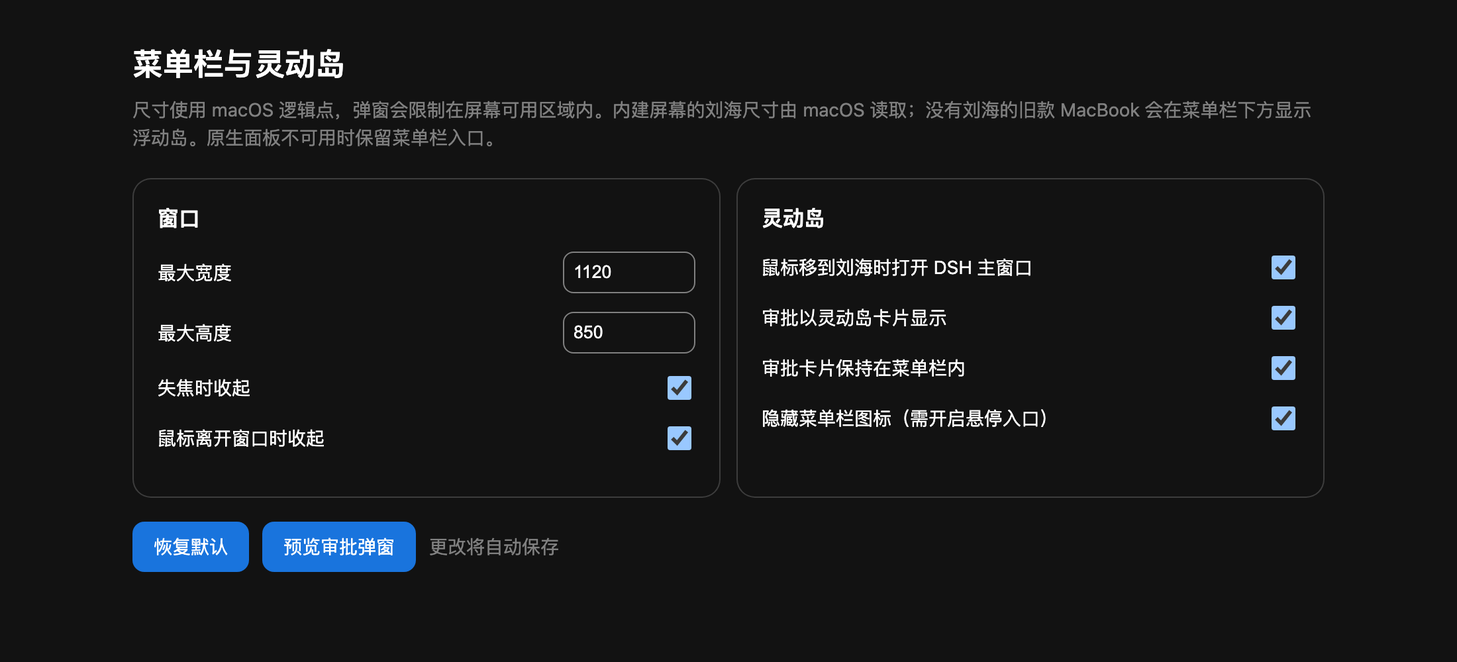
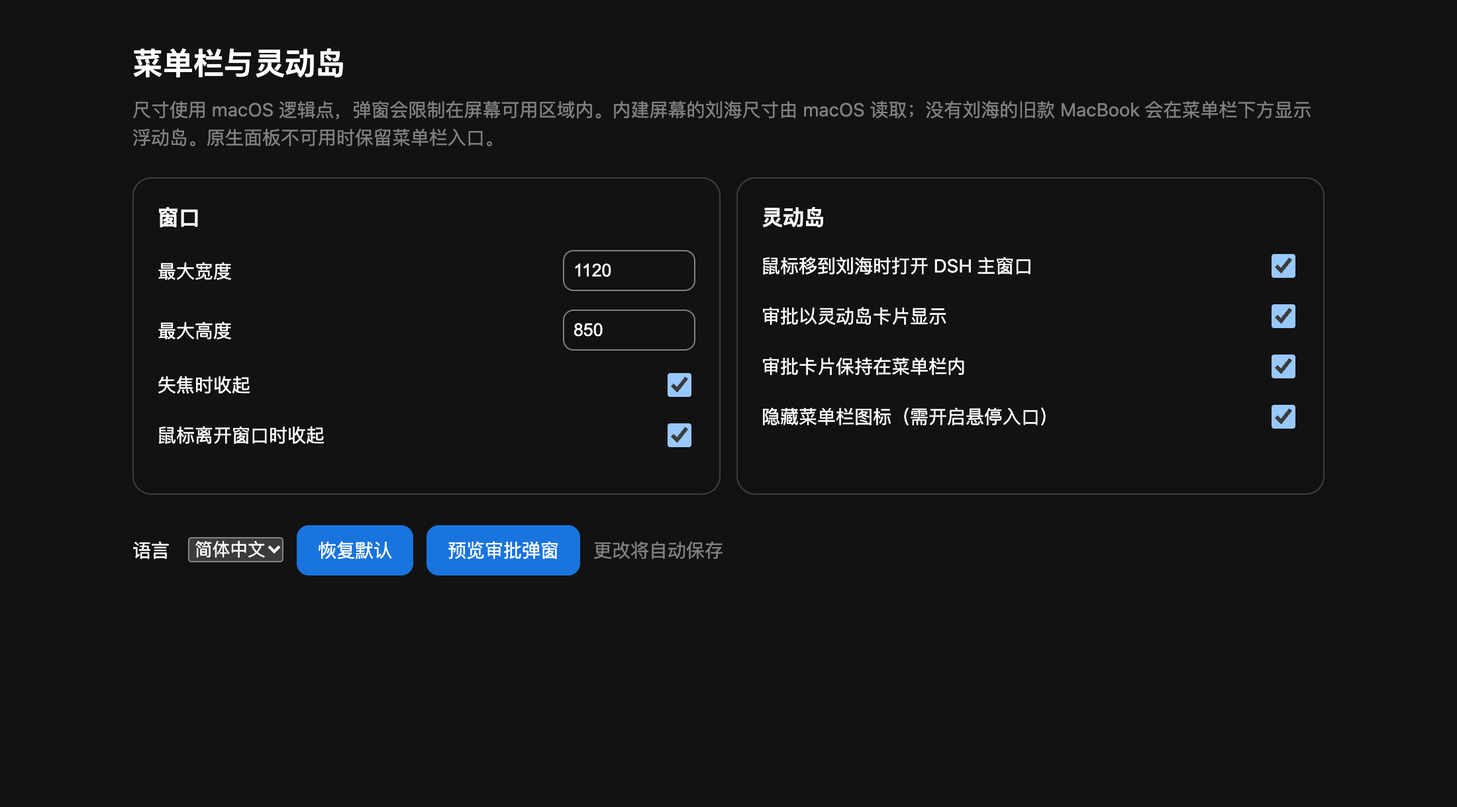
Add bilingual UI and animated plugin demo

diff --git a/settings.html b/settings.html
@@ -4,13 +4,27 @@
 <style>
   :root{color-scheme:light dark;font:14px -apple-system,BlinkMacSystemFont,sans-serif}*{box-sizing:border-box}body{margin:0;padding:clamp(16px,3vw,32px);background:transparent;color:CanvasText}.wrap{max-width:900px;margin:auto}h1{font-size:23px;margin:0 0 8px}p{line-height:1.5;color:GrayText;margin:0 0 20px}.grid{display:grid;grid-template-columns:repeat(auto-fit,minmax(min(100%,280px),1fr));gap:12px}.card{border:1px solid color-mix(in srgb,CanvasText 18%,transparent);border-radius:14px;padding:18px;background:color-mix(in srgb,Canvas 88%,transparent)}.card h2{font-size:16px;margin:0 0 14px}.row{display:flex;align-items:center;justify-content:space-between;gap:14px;margin:14px 0}.row span{line-height:1.4}.row input[type=number]{width:100px;max-width:45%;padding:7px;border-radius:8px;border:1px solid GrayText;background:Canvas;color:CanvasText}.row input[type=checkbox]{width:18px;height:18px;flex:none}.actions{display:flex;gap:10px;align-items:center;margin-top:18px;flex-wrap:wrap}button{font:inherit;border:0;border-radius:9px;padding:9px 16px;background:#1974dd;color:#fff;cursor:pointer}button:disabled{opacity:.5}#status{color:GrayText}
 </style>
-<div class="wrap"><h1>菜单栏与灵动岛</h1><p>尺寸使用 macOS 逻辑点，弹窗会限制在屏幕可用区域内。内建屏幕的刘海尺寸由 macOS 读取；没有刘海的旧款 MacBook 会在菜单栏下方显示浮动岛。原生面板不可用时保留菜单栏入口。</p>
-<div class="grid"><section class="card"><h2>窗口</h2><label class="row"><span>最大宽度</span><input name="maxWidth" type="number" min="680" max="1800" step="1"></label><label class="row"><span>最大高度</span><input name="maxHeight" type="number" min="600" max="1200" step="1"></label><label class="row"><span>失焦时收起</span><input name="hideOnBlur" type="checkbox"></label><label class="row"><span>鼠标离开窗口时收起</span><input name="hideOnMouseLeave" type="checkbox"></label></section>
-<section class="card"><h2>灵动岛</h2><label class="row"><span>鼠标移到刘海时打开 DSH 主窗口</span><input name="notchHover" type="checkbox"></label><label class="row"><span>审批以灵动岛卡片显示</span><input name="notchApprovals" type="checkbox"></label><label class="row"><span>审批卡片保持在菜单栏内</span><input name="compactApprovals" type="checkbox"></label><label class="row"><span>隐藏菜单栏图标（需开启悬停入口）</span><input name="hideTrayIcon" type="checkbox"></label></section></div>
-<div class="actions"><button id="reset" type="button" disabled>恢复默认</button><button id="preview" type="button">预览审批弹窗</button><span id="status" role="status" aria-live="polite">读取设置中…</span></div></div>
+<div class="wrap"><h1 data-i18n="heading">菜单栏与灵动岛</h1><p data-i18n="intro">尺寸使用 macOS 逻辑点，弹窗会限制在屏幕可用区域内。内建屏幕的刘海尺寸由 macOS 读取；没有刘海的旧款 MacBook 会在菜单栏下方显示浮动岛。原生面板不可用时保留菜单栏入口。</p>
+<div class="grid"><section class="card"><h2 data-i18n="window">窗口</h2><label class="row"><span data-i18n="maxWidth">最大宽度</span><input name="maxWidth" type="number" min="680" max="1800" step="1"></label><label class="row"><span data-i18n="maxHeight">最大高度</span><input name="maxHeight" type="number" min="600" max="1200" step="1"></label><label class="row"><span data-i18n="hideOnBlur">失焦时收起</span><input name="hideOnBlur" type="checkbox"></label><label class="row"><span data-i18n="hideOnMouseLeave">鼠标离开窗口时收起</span><input name="hideOnMouseLeave" type="checkbox"></label></section>
+<section class="card"><h2 data-i18n="island">灵动岛</h2><label class="row"><span data-i18n="notchHover">鼠标移到刘海时打开 DSH 主窗口</span><input name="notchHover" type="checkbox"></label><label class="row"><span data-i18n="notchApprovals">审批以灵动岛卡片显示</span><input name="notchApprovals" type="checkbox"></label><label class="row"><span data-i18n="compactApprovals">审批卡片保持在菜单栏内</span><input name="compactApprovals" type="checkbox"></label><label class="row"><span data-i18n="hideTrayIcon">隐藏菜单栏图标（需开启悬停入口）</span><input name="hideTrayIcon" type="checkbox"></label></section></div>
+<div class="actions"><label class="row"><span data-i18n="language">语言</span><select name="language"><option value="auto" data-i18n="auto">跟随系统</option><option value="zh-CN">简体中文</option><option value="en">English</option></select></label><button id="reset" type="button" disabled data-i18n="reset">恢复默认</button><button id="preview" type="button" data-i18n="preview">预览审批弹窗</button><span id="status" role="status" aria-live="polite">读取设置中…</span></div></div>
 <script>
 const defaults = { maxWidth: 1120, maxHeight: 850, hideOnBlur: true, hideOnMouseLeave: true,
-  notchHover: false, notchApprovals: false, compactApprovals: false, hideTrayIcon: false }
+  notchHover: false, notchApprovals: false, compactApprovals: false, hideTrayIcon: false, language: 'auto' }
+const strings = {
+  'zh-CN': { title:'菜单栏与灵动岛设置', heading:'菜单栏与灵动岛', intro:'尺寸使用 macOS 逻辑点，弹窗会限制在屏幕可用区域内。内建屏幕的刘海尺寸由 macOS 读取；没有刘海的旧款 MacBook 会在菜单栏下方显示浮动岛。原生面板不可用时保留菜单栏入口。', window:'窗口', maxWidth:'最大宽度', maxHeight:'最大高度', hideOnBlur:'失焦时收起', hideOnMouseLeave:'鼠标离开窗口时收起', island:'灵动岛', notchHover:'鼠标移到刘海时打开 DSH 主窗口', notchApprovals:'审批以灵动岛卡片显示', compactApprovals:'审批卡片保持在菜单栏内', hideTrayIcon:'隐藏菜单栏图标（需开启悬停入口）', language:'语言', auto:'跟随系统', reset:'恢复默认', preview:'预览审批弹窗', loading:'读取设置中…', waiting:'等待自动保存…', saving:'保存中…', saved:'已自动保存并应用', savedRestart:'已自动保存，重启后生效', newer:'继续保存新更改…', failed:'保存失败：', previewOpened:'预览已打开；点击任一选项可关闭', previewFailed:'预览失败：', ready:'更改将自动保存', readFailed:'读取失败：', range:'超出允许范围' },
+  en: { title:'Menu Bar & Island Settings', heading:'Menu Bar & Island', intro:'Sizes use macOS points. The popup stays within the usable display area. macOS provides the built-in notch dimensions; older MacBooks show a floating island below the menu bar. The menu bar entry remains available if the native panel cannot load.', window:'Window', maxWidth:'Maximum width', maxHeight:'Maximum height', hideOnBlur:'Hide when focus is lost', hideOnMouseLeave:'Hide when the pointer leaves the window', island:'Island', notchHover:'Open the DSH window when hovering over the notch', notchApprovals:'Show approvals in the island', compactApprovals:'Keep approval cards inside the menu bar', hideTrayIcon:'Hide menu bar icon (requires hover access)', language:'Language', auto:'Follow system', reset:'Reset defaults', preview:'Preview approval', loading:'Loading settings…', waiting:'Waiting to save…', saving:'Saving…', saved:'Saved and applied', savedRestart:'Saved; restart to apply', newer:'Saving newer changes…', failed:'Save failed: ', previewOpened:'Preview opened; choose any option to close', previewFailed:'Preview failed: ', ready:'Changes save automatically', readFailed:'Could not load settings: ', range:'is out of range' },
+}
+const systemLanguage = /^zh(?:-|_|$)/i.test(navigator.language || '') ? 'zh-CN' : 'en'
+let locale = systemLanguage
+const tr = key => strings[locale][key]
+function localize() {
+  locale = fields.language.value === 'auto' ? systemLanguage : fields.language.value
+  document.documentElement.lang = locale
+  document.title = tr('title')
+  for (const node of document.querySelectorAll('[data-i18n]')) node.textContent = tr(node.dataset.i18n)
+  try { localStorage.setItem('dsh-macos-menu-bar-language', fields.language.value) } catch { /* Storage can be disabled. */ }
+}
 const fields = Object.fromEntries(Object.keys(defaults).map(key =>
   [key, document.querySelector(`[name="${key}"]`)]))
 const status = document.getElementById('status')
@@ -27,17 +41,18 @@ function show(settings) {
     if (fields[key].type === 'checkbox') fields[key].checked = value
     else fields[key].value = value
   }
+  localize()
 }
 
 function collect() {
   return Object.fromEntries(Object.entries(fields).map(([key, field]) =>
-    [key, field.type === 'checkbox' ? field.checked : Number(field.value)]))
+    [key, field.type === 'checkbox' ? field.checked : field.type === 'number' ? Number(field.value) : field.value]))
 }
 
 function invalid() {
   for (const [key, field] of Object.entries(fields)) {
     if (field.type === 'number' && (!field.value || !field.checkValidity())) {
-      return `${key === 'maxWidth' ? '最大宽度' : '最大高度'}超出允许范围`
+      return `${tr(key)} ${tr('range')}`
     }
   }
   return ''
@@ -49,7 +64,7 @@ function schedule(delay = 0) {
   revision++
   const error = invalid()
   if (error) { status.textContent = error; return }
-  status.textContent = '等待自动保存…'
+  status.textContent = tr('waiting')
   timer = setTimeout(save, delay)
 }
 
@@ -59,7 +74,7 @@ async function save() {
   if (error) { status.textContent = error; return }
   saving = true
   const current = revision
-  status.textContent = '保存中…'
+  status.textContent = tr('saving')
   try {
     const response = await fetch('/macos-menu-bar/settings', {
       method: 'PUT', headers: { 'content-type': 'application/json' }, body: JSON.stringify(collect()),
@@ -69,10 +84,10 @@ async function save() {
     if (revision === current) {
       show(saved)
       status.textContent = response.headers.get('x-dsh-settings-applied') === 'false'
-        ? '已自动保存，重启后生效' : '已自动保存并应用'
-    } else status.textContent = invalid() || '继续保存新更改…'
+        ? tr('savedRestart') : tr('saved')
+    } else status.textContent = invalid() || tr('newer')
   } catch (error) {
-    status.textContent = `保存失败：${error.message}`
+    status.textContent = `${tr('failed')}${error.message}`
   } finally {
     saving = false
     if (revision !== current && !invalid()) void save()
@@ -88,10 +103,10 @@ for (const [key, field] of Object.entries(fields)) {
       if (key === 'compactApprovals' && field.checked) fields.notchApprovals.checked = true
       schedule()
     })
-  } else {
+  } else if (field.type === 'number') {
     field.addEventListener('input', () => schedule(450))
     field.addEventListener('change', () => schedule())
-  }
+  } else field.addEventListener('change', () => { localize(); schedule() })
 }
 
 document.getElementById('reset').onclick = () => { show(defaults); schedule() }
@@ -99,8 +114,8 @@ document.getElementById('preview').onclick = async () => {
   try {
     const response = await fetch('/macos-menu-bar/preview-approval', { method: 'POST' })
     if (!response.ok) throw Error(`HTTP ${response.status}`)
-    status.textContent = '预览已打开；点击任一选项可关闭'
-  } catch (error) { status.textContent = `预览失败：${error.message}` }
+    status.textContent = tr('previewOpened')
+  } catch (error) { status.textContent = `${tr('previewFailed')}${error.message}` }
 }
 
 fetch('/macos-menu-bar/settings')
@@ -110,13 +125,13 @@ fetch('/macos-menu-bar/settings')
     ready = true
     for (const field of Object.values(fields)) field.disabled = false
     document.getElementById('reset').disabled = false
-    status.textContent = '更改将自动保存'
+    status.textContent = tr('ready')
   })
   .catch(error => {
     show(defaults)
     ready = true
     for (const field of Object.values(fields)) field.disabled = false
     document.getElementById('reset').disabled = false
-    status.textContent = `读取失败：${error.message}`
+    status.textContent = `${tr('readFailed')}${error.message}`
   })
 </script></html>

diff --git a/docs/demo.html b/docs/demo.html
@@ -1,0 +1,101 @@
+<!doctype html>
+<html lang="zh-CN">
+<meta charset="utf-8">
+<meta name="viewport" content="width=device-width, initial-scale=1">
+<title>DSH macOS Menu Bar · UI demo</title>
+<style>
+  * { box-sizing: border-box }
+  html, body { margin: 0; width: 1280px; height: 720px; overflow: hidden }
+  body { font: 16px -apple-system, BlinkMacSystemFont, "PingFang SC", sans-serif; color: #f2f6ff;
+    background: radial-gradient(circle at 78% 20%, #17345b 0, transparent 35%),
+      radial-gradient(circle at 15% 85%, #13284a 0, transparent 45%), #080d18 }
+  .ambient { position: absolute; inset: 0; background: linear-gradient(135deg, #ffffff06, transparent 55%); pointer-events: none }
+  .eyebrow { position: absolute; left: 74px; top: 42px; color: #73abff; font-size: 14px; font-weight: 700; letter-spacing: .14em }
+  .brand { position: absolute; left: 74px; top: 74px; font-size: 30px; font-weight: 750; letter-spacing: -.025em }
+  .subtitle { position: absolute; right: 74px; top: 88px; font-size: 15px; color: #a7b8d5 }
+  .scene { position: absolute; inset: 132px 56px 74px; opacity: 0; pointer-events: none }
+  .scene h2 { margin: 0; font-size: 26px; font-weight: 700 }
+  .scene p { margin: 10px 0 0; color: #b2c0d6; font-size: 17px; line-height: 1.5 }
+  .mock { position: absolute; left: 0; right: 0; bottom: 0; height: 355px; border-radius: 24px;
+    border: 1px solid #a9c6f82a; background: #111b2c; overflow: hidden; box-shadow: 0 26px 70px #0008 }
+  .mockbar { height: 43px; background: #263246; border-bottom: 1px solid #ffffff20; display: flex; align-items: center; padding: 0 18px }
+  .dots { display: flex; gap: 8px }.dots i { width: 11px; height: 11px; border-radius: 50%; background: #ff605c }
+  .dots i:nth-child(2) { background: #ffbd44 }.dots i:nth-child(3) { background: #00ca4e }
+  .mockbar span { margin: auto; padding-right: 50px; color: #cad5e7; font-size: 13px }
+  .menu { height: 68px; position: relative; background: #161a22; border-bottom: 1px solid #ffffff13 }
+  .menu .apple { position: absolute; left: 22px; top: 18px; font-size: 22px }
+  .menu .menu-name { position: absolute; left: 65px; top: 23px; color: #dce4f2; font-size: 15px }
+  .menu .island { position: absolute; top: 0; left: 50%; transform: translateX(-50%); width: 500px; height: 67px; object-fit: fill }
+  .menu .clock { position: absolute; right: 24px; top: 23px; color: #c2cad7; font-size: 14px }
+  .window { position: absolute; left: 180px; top: 130px; width: 805px; height: 265px; overflow: hidden;
+    border-radius: 15px; border: 1px solid #ffffff25; background: #111; box-shadow: 0 24px 45px #000b }
+  .window:before { content: "●  ●  ●     DeepSeek Harness"; display: block; height: 32px; padding: 8px 14px;
+    color: #c9d5e4; background: #232934; font-size: 12px; letter-spacing: .1em }
+  .window img { display: block; width: 100%; height: auto }
+  .pointer { position: absolute; left: 585px; top: 19px; width: 16px; height: 22px; background: #f8fbff;
+    clip-path: polygon(0 0, 0 100%, 5px 15px, 15px 16px); filter: drop-shadow(1px 2px 1px #000) }
+  .approval-shell { position: absolute; left: 0; right: 0; top: 140px; height: 285px; border-radius: 24px;
+    background: #151b28; border: 1px solid #9bbefc33; box-shadow: 0 25px 70px #0008; overflow: hidden }
+  .approval-shell .menu { height: 74px }
+  .approval-shell .menu .clock { top: 25px }
+  .approval-shot { position: absolute; left: 36px; top: 118px; width: 1096px; height: 60px; object-fit: fill }
+  .approval-caption { position: absolute; left: 44px; bottom: 38px; color: #d3ddec; font-size: 17px }
+  .badge { display: inline-block; margin-left: 14px; padding: 6px 10px; border-radius: 8px;
+    background: #62491d; color: #ffcf77; font-size: 13px; vertical-align: middle }
+  .settings-shell { position: absolute; left: 0; right: 0; top: 94px; height: 405px; border-radius: 22px;
+    overflow: hidden; background: #101010; border: 1px solid #ffffff2c; box-shadow: 0 25px 70px #0008 }
+  .settings-shell img { display: block; width: 100%; height: auto }
+  .progress { position: absolute; left: 74px; right: 74px; bottom: 35px; height: 4px; display: flex; gap: 8px }
+  .progress i { flex: 1; border-radius: 8px; background: #5d72904d }
+  .progress i.active { background: #62a0ff; box-shadow: 0 0 13px #5f9dff88 }
+  .note { position: absolute; right: 74px; bottom: 53px; font-size: 12px; color: #74849d }
+</style>
+<div class="ambient"></div>
+<div class="eyebrow">DEEPSEEK HARNESS PLUGIN</div>
+<div class="brand">DSH macOS Menu Bar</div>
+<div class="subtitle">菜单栏 · 刘海入口 · 原生审批</div>
+<section class="scene" id="scene0">
+  <h2>从菜单栏进入 DSH</h2><p>鼠标移到刘海区域，展开现有 Desktop 窗口；离开后可自动收起。</p>
+  <div class="mock"><div class="mockbar"><div class="dots"><i></i><i></i><i></i></div><span>macOS Desktop · 界面效果演示</span></div>
+    <div class="menu"><span class="apple">●</span><span class="menu-name">DeepSeek Harness</span><img class="island" src="screenshots/island-idle.png"><span class="clock">11:52</span><div class="pointer" id="pointer"></div></div>
+    <div class="window" id="popup"><img src="screenshots/settings.png" alt="DSH 插件配置页"></div>
+  </div>
+</section>
+<section class="scene" id="scene1">
+  <h2>审批直接出现在刘海附近</h2><p>多会话请求排队显示；也可选择不超出菜单栏的紧凑卡片。</p>
+  <div class="approval-shell"><div class="menu"><span class="apple">●</span><span class="menu-name">DeepSeek Harness</span><span class="clock">11:52</span></div>
+    <img class="approval-shot" src="screenshots/approval-compact.png" alt="紧凑审批卡片">
+    <div class="approval-caption">拒绝 · 查看详情 · 允许一次 <span class="badge">预览卡片，不会授权任务</span></div>
+  </div>
+</section>
+<section class="scene" id="scene2">
+  <h2>在 DSH 内调整行为</h2><p>窗口尺寸、自动收起、刘海悬停、审批样式与语言均可自动保存。</p>
+  <div class="settings-shell"><img src="screenshots/settings.png" alt="菜单栏与灵动岛配置页"></div>
+</section>
+<div class="note">由插件界面截图编排 · 审批画面为预览</div>
+<div class="progress"><i></i><i></i><i></i></div>
+<script>
+  const scenes = [...document.querySelectorAll('.scene')]
+  const dots = [...document.querySelectorAll('.progress i')]
+  const clamp = n => Math.max(0, Math.min(1, n))
+  function setDemoTime(time) {
+    const t = ((time % 12) + 12) % 12
+    scenes.forEach((scene, index) => {
+      const start = index * 4
+      const local = t - start
+      const alpha = clamp(local / .45) * clamp((4 - local) / .45)
+      scene.style.opacity = alpha
+      scene.style.transform = `translateY(${(1 - alpha) * 15}px)`
+      dots[index].classList.toggle('active', local >= 0 && local < 4)
+    })
+    const appear = clamp((t - 1.0) / .55)
+    const popup = document.getElementById('popup')
+    popup.style.opacity = appear
+    popup.style.transform = `translateY(${(1 - appear) * -23}px) scale(${.97 + .03 * appear})`
+    document.getElementById('pointer').style.transform = `translateY(${Math.sin(t * 2.3) * 4}px)`
+    document.querySelector('.settings-shell img').style.transform = `translateY(${-clamp((t - 8.6) / 2.5) * 210}px)`
+  }
+  window.setDemoTime = setDemoTime
+  setDemoTime(0.2)
+</script>
+</html>

diff --git a/client.js b/client.js
@@ -3,6 +3,12 @@ window.__ModuleLoader__.load({
   factory(require) {
     const React = require('react')
     const h = React.createElement
+    const language = () => {
+      let selected = 'auto'
+      try { selected = window.localStorage.getItem('dsh-macos-menu-bar-language') || 'auto' } catch { /* Storage can be disabled. */ }
+      return selected === 'auto' ? (/^zh(?:-|_|$)/i.test(window.navigator.language) ? 'zh-CN' : 'en') : selected
+    }
+    const label = () => language() === 'zh-CN' ? '菜单栏与灵动岛' : 'Menu Bar & Island'
     function Icon() {
       return h('svg', { width: 20, height: 20, viewBox: '0 0 20 20', fill: 'none', 'aria-hidden': true },
         h('rect', { x: 2, y: 3, width: 16, height: 14, rx: 4, stroke: 'currentColor', strokeWidth: 1.6 }),
@@ -10,7 +16,7 @@ window.__ModuleLoader__.load({
     }
     function SettingsPage() {
       return h('div', { style: { position: 'relative', height: '100%', minHeight: 0 } },
-        h('iframe', { title: '菜单栏与灵动岛设置', src: '/macos-menu-bar/settings.html',
+        h('iframe', { title: label(), src: '/macos-menu-bar/settings.html',
           style: { position: 'absolute', inset: 0, width: '100%', height: '100%', border: 0, display: 'block' } }))
     }
     return { inject: [], apply(ctx) {
@@ -30,7 +36,7 @@ window.__ModuleLoader__.load({
           try {
             dispose = [
               slots.inject('sidebar.panellist', () => slots.register({
-                name: 'sidebar.panellist', id: 'macos-menu-bar', order: 45, label: () => '菜单栏与灵动岛',
+                name: 'sidebar.panellist', id: 'macos-menu-bar', order: 45, label,
               }, Icon)),
               slots.inject('main', () => slots.register({ name: 'main', key: 'macos-menu-bar' }, SettingsPage)),
             ]

diff --git a/native/notch-panel.mm b/native/notch-panel.mm
@@ -392,14 +392,16 @@ static napi_value hideApproval(napi_env env, napi_callback_info info) {
 }
 
 static napi_value updateApprovalQueue(napi_env env, napi_callback_info info) {
-  size_t count = 1; napi_value args[1];
+  size_t count = 2; napi_value args[2];
   napi_get_cb_info(env, info, &count, args, nullptr, nullptr);
   int32_t pending = 0;
-  if (count == 1) napi_get_value_int32(env, args[0], &pending);
+  if (count >= 1) napi_get_value_int32(env, args[0], &pending);
+  NSString* locale = count >= 2 ? stringValue(env, args[1]) : @"en";
+  BOOL chinese = [locale hasPrefix:@"zh"];
   if (approvalHeading && approvalBaseTitle) {
     approvalHeading.stringValue = pending > 0 ? approvalCompact
-      ? [NSString stringWithFormat:@"待审批 +%d", pending]
-      : [NSString stringWithFormat:@"%@ · 后续 %d 条", approvalBaseTitle, pending]
+      ? [NSString stringWithFormat:chinese ? @"待审批 +%d" : @"Pending +%d", pending]
+      : [NSString stringWithFormat:chinese ? @"%@ · 后续 %d 条" : @"%@ · %d more", approvalBaseTitle, pending]
       : approvalBaseTitle;
   }
   return metrics(env, info);

diff --git a/README.md b/README.md
@@ -8,9 +8,13 @@ DeepSeek Harness Desktop menu bar and notch plugin for macOS. The plugin reuses 
 
 插件类别：**UI & Experience**。仅支持 macOS 的 **Desktop** profile；请勿按 Web profile 的通用安装示例安装。
 
+![菜单栏、刘海入口、审批与设置的动画演示](https://raw.githubusercontent.com/amoswzw/dsh-macos-menu-bar/main/docs/screenshots/demo.gif)
+
+动画由插件界面截图编排；其中审批卡片是预览，选择按钮不会授权任务。
+
 ## 截图
 
-配置页（从 DSH Host 提供的插件页面截取，不包含会话侧栏）：
+配置页（使用本仓库设置页和示例配置渲染，不包含会话侧栏）：
 
 ![菜单栏与灵动岛配置页](docs/screenshots/settings.png)
 
@@ -24,17 +28,19 @@ DeepSeek Harness Desktop menu bar and notch plugin for macOS. The plugin reuses 
 
 ## 兼容性与安装
 
-需要 macOS、DeepSeek Harness Desktop `>=0.2.2-rc.3 <0.2.3`。先完全退出正在运行的 Desktop，再从 npm 安装已发布的 `0.1.0` 版本：
+需要 macOS、DeepSeek Harness Desktop `>=0.2.2-rc.3 <0.2.3`。先完全退出正在运行的 Desktop，再从 GitHub 安装包含语言切换的当前源码：
 
 ```sh
 DSH_CLI="/Applications/DeepSeek Harness.app/Contents/Resources/runtime/cli/bin/dsh"
-"$DSH_CLI" plugin --profile desktop add @amoswzw/dsh-macos-menu-bar@0.1.0
+"$DSH_CLI" plugin --profile desktop add github:amoswzw/dsh-macos-menu-bar
 open -a "/Applications/DeepSeek Harness.app"
 ```
 
 克隆仓库后，也可运行 `./install.sh`；脚本默认从 GitHub 源码安装。传入包名可改用 npm，例如 `./install.sh @amoswzw/dsh-macos-menu-bar@0.1.0`；传入 `.` 则从本地仓库安装。如果 DSH 安装在其他位置，可设置 `DSH_CLI=/path/to/dsh`。脚本只安装插件，不会自动重启正在运行的 Desktop。
 
-也可从 GitHub 安装：`"$DSH_CLI" plugin --profile desktop add github:amoswzw/dsh-macos-menu-bar`，或把来源固定到某次提交：`github:amoswzw/dsh-macos-menu-bar#<commit-sha>`。安装一次即可；以后从 Finder、Dock、Spotlight 或 `open -a` 正常启动。插件在 Host 加载时自动注入主进程。若设置了 `DSH_HOME`，安装命令会使用对应的 Desktop profile。安装后若仍看到旧窗口行为，请完全退出并重开 Desktop。
+已发布的 npm `0.1.0` 可用 `"$DSH_CLI" plugin --profile desktop add @amoswzw/dsh-macos-menu-bar@0.1.0` 安装，但它早于语言切换功能。也可把 GitHub 来源固定到某次提交：`github:amoswzw/dsh-macos-menu-bar#<commit-sha>`。安装一次即可；以后从 Finder、Dock、Spotlight 或 `open -a` 正常启动。插件在 Host 加载时自动注入主进程。若设置了 `DSH_HOME`，安装命令会使用对应的 Desktop profile。安装后若仍看到旧窗口行为，请完全退出并重开 Desktop。
+
+English quick start: this plugin requires macOS and DeepSeek Harness Desktop `>=0.2.2-rc.3 <0.2.3`. Quit Desktop completely, run the GitHub installation commands above, and reopen the app. Open **Menu Bar & Island** in the DSH sidebar to choose **Follow system**, **English**, or **简体中文**. The npm `0.1.0` release predates the language selector.
 
 卸载：
 
@@ -52,7 +58,7 @@ open -a "/Applications/DeepSeek Harness.app"
 
 左键点击菜单栏图标可显示或隐藏同一个 Desktop 窗口。弹窗显示期间会临时加入所有 macOS Space，以便从当前桌面打开；收起后恢复原窗口的 Space 属性。右键提供“打开完整窗口”和“退出”。弹出窗口失焦时自动隐藏，任务继续运行。工具审批框提供“拒绝”“查看详情”“允许一次”；“查看详情”打开完整 Desktop 页面并交还给原有审批界面。应用访问等使用 DSH `user-questions` 审批意图的请求也会弹出原生确认框。允许一次只答复当前请求；取消或通信失败不会授权。
 
-在 DSH 左侧栏打开 **菜单栏与灵动岛** 配置页，可设置弹窗最大宽高、失焦收起、鼠标离开收起、刘海悬停打开主窗口、审批卡片、菜单栏内紧凑审批和隐藏菜单栏图标。更改会自动保存，恢复默认也会立即应用。尺寸按 macOS 逻辑点计算，并按当前屏幕可用区域限制；默认最大宽高为 1120 × 850。原生 AppKit 面板读取内建屏幕的安全区与刘海两侧区域；有刘海时紧贴屏幕顶边，没有刘海的旧款 MacBook 显示在菜单栏下方。鼠标移到刘海黑色岛的任一可见位置会直接弹出原来的 Desktop 主窗口；只有审批请求才展开刘海审批卡片。刘海左侧显示 DeepSeek 图标，工作或等待审批时图标会轻微呼吸；右侧指示灯空闲时为灰色，Agent 工作时蓝色呼吸，等待审批时橙色呼吸。隐藏菜单栏图标需要同时开启悬停入口、使用内建屏幕作为主屏，而且原生面板必须可用。设置保存在 `$DSH_HOME/macos-menu-bar.json`，不修改其他插件的配置。
+在 DSH 左侧栏打开 **菜单栏与灵动岛** 配置页，可设置弹窗最大宽高、失焦收起、鼠标离开收起、刘海悬停打开主窗口、审批卡片、菜单栏内紧凑审批、隐藏菜单栏图标及语言。界面支持简体中文和英语，默认跟随 macOS 语言，也可手动选择；设置页、菜单栏菜单、审批预览和插件自身的审批文案会一起切换。更改会自动保存，恢复默认也会立即应用。尺寸按 macOS 逻辑点计算，并按当前屏幕可用区域限制；默认最大宽高为 1120 × 850。原生 AppKit 面板读取内建屏幕的安全区与刘海两侧区域；有刘海时紧贴屏幕顶边，没有刘海的旧款 MacBook 显示在菜单栏下方。鼠标移到刘海黑色岛的任一可见位置会直接弹出原来的 Desktop 主窗口；只有审批请求才展开刘海审批卡片。刘海左侧显示 DeepSeek 图标，工作或等待审批时图标会轻微呼吸；右侧指示灯空闲时为灰色，Agent 工作时蓝色呼吸，等待审批时橙色呼吸。隐藏菜单栏图标需要同时开启悬停入口、使用内建屏幕作为主屏，而且原生面板必须可用。设置保存在 `$DSH_HOME/macos-menu-bar.json`，不修改其他插件的配置。
 
 配置页中的“预览审批弹窗”会打开一张示例卡片，供检查位置和样式；预览选择不会授权任务。开启菜单栏内紧凑审批后，标题与请求摘要显示在刘海左侧、按钮显示在右侧，卡片不会进入工作区；长按钮文字可悬停查看完整标签。多个会话同时请求审批时，卡片按收到的顺序逐条显示，并标出等待数量；已取消的请求会从队列移除。
 
